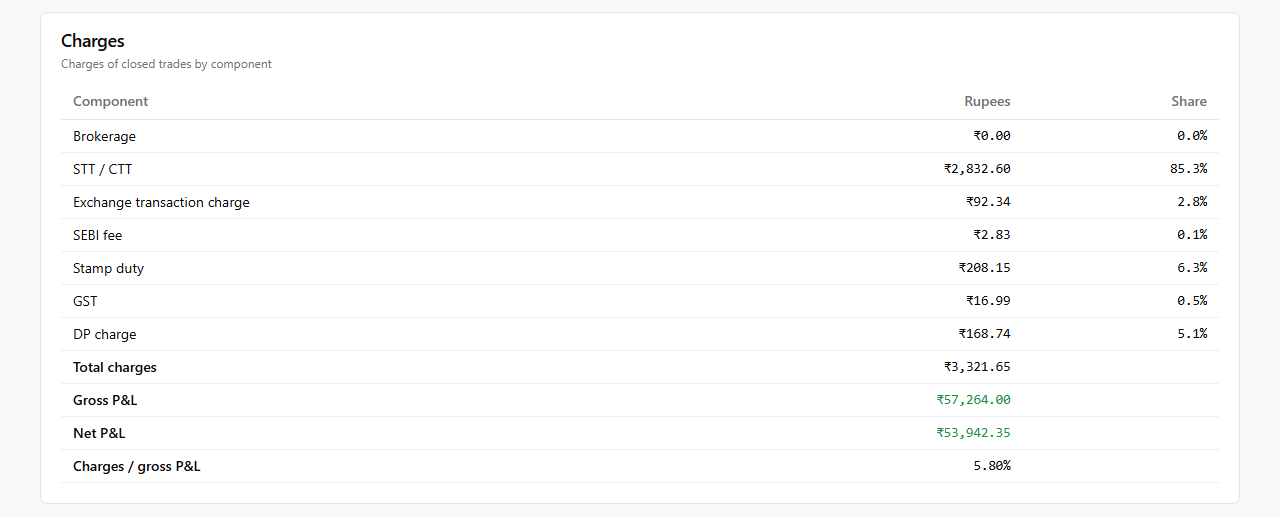
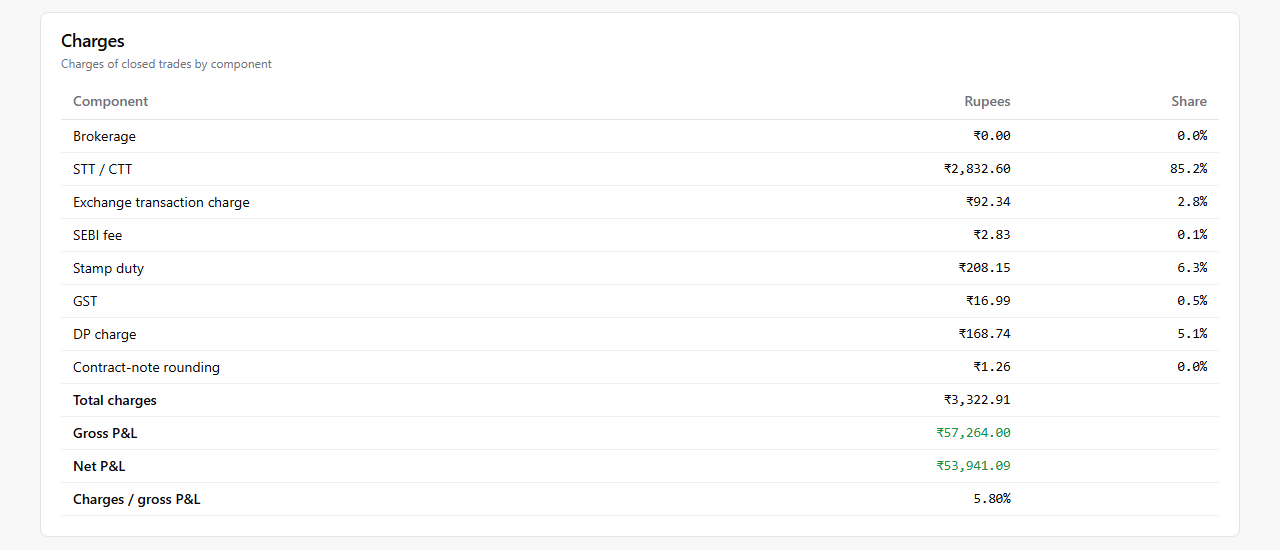
Python docs: 2.2.1, trades that add up to the account and the ServerError stop
- Each trade's charges now include its share of the contract-note rounding, so the
  trade figures equal the account: the SBIN run's trades net Rs 53,941.09 with
  charges Rs 3,322.91. The Rs 1.26 explanations in lesson 2, Metrics Explained and
  The Tearsheet are replaced, and changed values are updated.
- Output blocks refreshed on the twelve pages whose trade figures moved; Costs,
  Slippage and Margin shows the new `charged` column.
- The Charges screenshot shows the Contract-note rounding row; the Trades
  screenshot its new figures.
- Common Tasks, Data and Data Loading: a server that cannot send the history before
  start stops the run with ServerError.
- The overview hint says these pages describe 2.2.1, being released.

diff --git a/trading-platform/python/backtesting/tutorial/02-read-the-results.md b/trading-platform/python/backtesting/tutorial/02-read-the-results.md
@@ -141,20 +141,20 @@ open_trades                                          Open trades                
 winning_trades                                    Winning trades                          4      count
 losing_trades                                      Losing trades                          7      count
 win_rate                                                Win rate                   0.363636   fraction
-average_win                                          Average win               27746.076004     rupees
-average_loss                                        Average loss               -8148.851097     rupees
-profit_factor                                      Profit factor                   1.945661      ratio
-expectancy                                            Expectancy                4903.849667     rupees
-payoff_ratio                                        Payoff ratio                   3.404906      ratio
-largest_win                                          Largest win               40455.863962     rupees
-largest_loss                                        Largest loss              -16998.742792     rupees
+average_win                                          Average win                 27746.2275     rupees
+average_loss                                        Average loss               -8149.117143     rupees
+profit_factor                                      Profit factor                   1.945608      ratio
+expectancy                                            Expectancy                4903.735455     rupees
+payoff_ratio                                        Payoff ratio                   3.404814      ratio
+largest_win                                          Largest win                   40455.82     rupees
+largest_loss                                        Largest loss                  -16999.48     rupees
 max_consecutive_wins                            Consecutive wins                          1      count
 max_consecutive_losses                        Consecutive losses                          2      count
 average_holding_seconds                     Average holding time            11012072.727273    seconds
 gross_pnl                                              Gross P&L                    57264.0     rupees
-total_costs                                                Costs                3321.653663     rupees
-net_pnl                                                  Net P&L               53942.346337     rupees
-cost_share_of_gross_pnl                        Costs / gross P&L                   0.058006   fraction
+total_costs                                                Costs                    3322.91     rupees
+net_pnl                                                  Net P&L                   53941.09     rupees
+cost_share_of_gross_pnl                        Costs / gross P&L                   0.058028   fraction
 turnover                                                Turnover                  2832597.5     rupees
 turnover_ratio                                    Turnover ratio                  20.957028      ratio
 benchmark_total_return                          Benchmark return                   0.806287   fraction
@@ -207,10 +207,10 @@ tail_ratio                                            Tail ratio                
 outlier_win_ratio                              Outlier win ratio                   3.221468      ratio
 outlier_loss_ratio                            Outlier loss ratio                   3.076299      ratio
 win_loss_ratio                                    Win/loss ratio                   0.571429      ratio
-kelly_criterion                                  Kelly criterion                    0.17674   fraction
-risk_of_ruin                                        Risk of ruin                   0.036067   fraction
-cpc_index                                              CPC index                   2.409016      ratio
-common_sense_ratio                            Common sense ratio                   2.228911      ratio
+kelly_criterion                                  Kelly criterion                   0.176735   fraction
+risk_of_ruin                                        Risk of ruin                   0.036075   fraction
+cpc_index                                              CPC index                   2.408885      ratio
+common_sense_ratio                            Common sense ratio                    2.22885      ratio
 ```
 
 How to read the table:
@@ -218,7 +218,7 @@ How to read the table:
 * The left column, `key`, is the figure's name in code: `result.metrics["sharpe"]` gives the Sharpe ratio, 0.469393. The figures come in groups, such as Run, Returns and risk, Drawdown and Trades; the table's `group` column says which group each row belongs to.
 * `unit` says how to read the value. A **fraction** is a percent written as a share of 1: a `total_return` of 0.539411 is 53.94 percent. **rupees** is money, **ratio** a plain number, **count** a whole number, **days** calendar days, **seconds** seconds, **timestamp** a time in IST (`None` when there is none, such as the recovery of a drawdown that has not recovered yet), **flag** True or False, and **text** words.
 * The Benchmark group (beta, alpha and the others) is there because this run has `benchmark="NIFTY"`. Without a benchmark the table has 100 figures.
-* `net_pnl` in the Trades group, Rs 53,942.35, is Rs 1.26 more than `net_profit`, Rs 53,941.09. The trade figures add up each trade's own charges; the account also pays the rounding of each day's contract note, which rounds STT and stamp duty to whole rupees. `net_profit` is what your account made.
+* `net_pnl` in the Trades group, Rs 53,941.09, equals `net_profit`. Each trade's charges include its share of the rounding on each day's contract note (STT and stamp duty are rounded to whole rupees there), so the trades add up to what your account made. The two differ only when a position is still open at the end of the run: `net_pnl` counts closed trades only.
 
 A fifth column, `definition`, says how each figure is worked out:
 
@@ -254,23 +254,23 @@ print(trades[columns].to_string(float_format="%.2f"))  # every row, with two dec
 ```text
                      entry_time                 exit_time  quantity  entry_price  exit_price   net_pnl
 trade
-1     2021-05-11 09:15:00+05:30 2021-12-21 09:15:00+05:30    270.00       356.95      456.95  26741.28
-2     2022-01-11 09:15:00+05:30 2022-03-04 09:15:00+05:30    246.00       503.15      460.20 -10846.48
-3     2022-04-06 09:15:00+05:30 2022-05-06 09:15:00+05:30    222.00       507.15      470.90  -8305.91
-4     2022-07-13 09:15:00+05:30 2023-01-30 09:15:00+05:30    217.00       487.85      535.85  10153.35
-5     2023-04-28 09:15:00+05:30 2023-08-17 09:15:00+05:30    204.00       567.95      565.60   -752.78
-6     2023-09-15 09:15:00+05:30 2023-10-19 09:15:00+05:30    191.00       599.50      569.65  -5966.26
-7     2023-12-07 09:15:00+05:30 2024-08-14 09:15:00+05:30    178.00       610.15      800.75  33633.80
-8     2024-11-05 09:15:00+05:30 2025-01-01 09:15:00+05:30    170.00       830.05      795.35  -6222.16
-9     2025-04-03 09:15:00+05:30 2026-03-30 09:15:00+05:30    174.00       770.20     1004.75  40455.86
-10    2026-04-27 09:15:00+05:30 2026-05-11 09:15:00+05:30    159.00      1111.20     1006.75 -16998.74
-11    2026-07-03 09:15:00+05:30 2026-09-08 09:15:00+05:30    150.00      1055.25     1004.65  -7949.63
+1     2021-05-11 09:15:00+05:30 2021-12-21 09:15:00+05:30    270.00       356.95      456.95  26742.48
+2     2022-01-11 09:15:00+05:30 2022-03-04 09:15:00+05:30    246.00       503.15      460.20 -10846.92
+3     2022-04-06 09:15:00+05:30 2022-05-06 09:15:00+05:30    222.00       507.15      470.90  -8306.89
+4     2022-07-13 09:15:00+05:30 2023-01-30 09:15:00+05:30    217.00       487.85      535.85  10153.37
+5     2023-04-28 09:15:00+05:30 2023-08-17 09:15:00+05:30    204.00       567.95      565.60   -752.17
+6     2023-09-15 09:15:00+05:30 2023-10-19 09:15:00+05:30    191.00       599.50      569.65  -5966.78
+7     2023-12-07 09:15:00+05:30 2024-08-14 09:15:00+05:30    178.00       610.15      800.75  33633.24
+8     2024-11-05 09:15:00+05:30 2025-01-01 09:15:00+05:30    170.00       830.05      795.35  -6221.68
+9     2025-04-03 09:15:00+05:30 2026-03-30 09:15:00+05:30    174.00       770.20     1004.75  40455.82
+10    2026-04-27 09:15:00+05:30 2026-05-11 09:15:00+05:30    159.00      1111.20     1006.75 -16999.48
+11    2026-07-03 09:15:00+05:30 2026-09-08 09:15:00+05:30    150.00      1055.25     1004.65  -7949.90
 ```
 
 * Each row is one trade: bought at `entry_time` and sold at `exit_time`, both in IST (`+05:30`). 09:15 is the market open, when every order of this daily strategy filled.
 * `quantity` is the number of shares bought: whole shares, as many as 98 percent of the account could pay for. Later trades bought fewer, because each share cost more.
 * The prices are per share, in rupees, and include slippage. `net_pnl` is the trade's profit or loss in rupees, after its own charges.
-* The first trade, bought in May 2021 at 356.95 and sold in December 2021 at 456.95, made Rs 26,741.28. A few long trends like that one paid for the many short losses.
+* The first trade, bought in May 2021 at 356.95 and sold in December 2021 at 456.95, made Rs 26,742.48. A few long trends like that one paid for the many short losses.
 * The table has more columns: `direction` (long or short), `product`, `gross_pnl` (before charges), `charges`, `return_pct` (the trade's return in percent), `bars_held` and `days_held` (how long it was held) and `exit_reason` (why it was sold; `signal` is your own `self.exit()`).
 
 ## The HTML report

diff --git a/trading-platform/python/backtesting/costs-slippage-and-margin.md b/trading-platform/python/backtesting/costs-slippage-and-margin.md
@@ -56,7 +56,7 @@ Net profit   : Rs 53,941.09
 Return       : 53.94%
 Max drawdown : -29.35%
 Trades       : 11 (36% won)
-Charges      : Rs 3,321.65
+Charges      : Rs 3,322.91
 ```
 
 The net profit is after every charge. The **max drawdown** is the largest fall of the account from its highest value.
@@ -76,18 +76,18 @@ The charges of the first trade, its buy and its sell:
 <!-- requires-server -->
 ```python
 # result.costs has one row per fill with every charge in rupees; show the first two rows.
-columns = ["side", "price_rupees", "brokerage", "stt", "exchange_txn", "sebi_fee", "stamp_duty", "gst", "dp_charge", "total"]
+columns = ["side", "price_rupees", "brokerage", "stt", "exchange_txn", "sebi_fee", "stamp_duty", "gst", "dp_charge", "total", "charged"]
 print(result.costs[columns].head(2).round(2).to_string(index=False))
 ```
 
 <!-- output -->
 ```text
-side  price_rupees  brokerage    stt  exchange_txn  sebi_fee  stamp_duty  gst  dp_charge  total
- BUY        356.95        0.0  96.38          3.33      0.10       14.46 0.60       0.00 114.85
-SELL        456.95        0.0 123.38          4.26      0.12        0.00 0.77      15.34 143.86
+side  price_rupees  brokerage    stt  exchange_txn  sebi_fee  stamp_duty  gst  dp_charge  total  charged
+ BUY        356.95        0.0  96.38          3.33      0.10       14.46 0.60       0.00 114.85   114.03
+SELL        456.95        0.0 123.38          4.26      0.12        0.00 0.77      15.34 143.86   143.49
 ```
 
-Reading the buy: 270 shares at 356.95 is an order of Rs 96,377. Delivery brokerage is zero. STT is 0.1 percent of the value (Rs 96.38), stamp duty 0.015 percent (Rs 14.46), and the exchange charge, SEBI fee and GST add about Rs 4. The sell pays STT again, no stamp duty, and the DP charge of Rs 15.34. Every rate is the one in force on the trade's date.
+Reading the buy: 270 shares at 356.95 is an order of Rs 96,377. Delivery brokerage is zero. STT is 0.1 percent of the value (Rs 96.38), stamp duty 0.015 percent (Rs 14.46), and the exchange charge, SEBI fee and GST add about Rs 4. The sell pays STT again, no stamp duty, and the DP charge of Rs 15.34. Every rate is the one in force on the trade's date. `total` adds up the charges as worked out; `charged` is what the account paid for the fill. The day's contract note rounds STT and stamp duty to whole rupees (Rs 96 and Rs 14 for the buy), so the buy paid Rs 114.03 and the sell Rs 143.49. A trade's charges are what its fills paid.
 
 ## How do I use my own broker's brokerage?
 
@@ -116,7 +116,7 @@ Net profit   : Rs 53,485.86
 Return       : 53.49%
 Max drawdown : -29.42%
 Trades       : 11 (36% won)
-Charges      : Rs 3,836.09
+Charges      : Rs 3,836.94
 ```
 
 Twenty-two orders at Rs 20 each (Rs 440), plus the GST on them, raised the charges and lowered the profit. To price one trade without a backtest, use the [cost calculator](support-functions/cost-calculator.md).
@@ -149,7 +149,7 @@ Net profit   : Rs 54,954.60
 Return       : 54.95%
 Max drawdown : -29.24%
 Trades       : 11 (36% won)
-Charges      : Rs 3,330.54
+Charges      : Rs 3,328.25
 ```
 
 Over 22 fills, the default slippage cost about Rs 1,000 of profit. Keep it on: real fills are never exactly at the open.
@@ -226,7 +226,7 @@ Net profit   : Rs 55,819.69
 Return       : 55.82%
 Max drawdown : -29.82%
 Trades       : 11 (36% won)
-Charges      : Rs 3,414.87
+Charges      : Rs 3,416.24
 first buy, whole shares: 270.0
 first buy, part shares : 279.82
 ```
@@ -268,7 +268,7 @@ Here there are two. The first: no lot or tick size was given for SBIN, so the en
 
 ## More options
 
-* **Contract-note rounding:** by default STT and stamp duty are rounded to the rupee once a day per contract note, as a broker does; `result.contract_notes` shows each note. `costs=bt.costs.CostModel(rounding="calculator")` rounds each trade instead.
+* **Contract-note rounding:** by default STT and stamp duty are rounded to the rupee once a day per contract note, as a broker does; `result.contract_notes` shows each note. Each fill pays its share of its note (`result.costs["charged"]`), and a trade pays what its fills paid, so the trades add up to the account. `costs=bt.costs.CostModel(rounding="calculator")` rounds each trade instead.
 * **Dated rates:** charges are built in from 1 July 2020, one schedule per rate change; `result.costs` names the `schedule` of each fill. An earlier start stops with a `CostError`: pass `costs=None`, or `bt.costs.CostModel(backfill=True)`.
 * **Not costed yet:** currency derivatives (CDS, BCD) and MCX options stop with a `CostError`; pass `costs=None`.
 * **Your own brokerage:** `bt.costs.custom(delivery=..., intraday=..., futures=..., options=..., dp_fee=...)`.

diff --git a/trading-platform/python/backtesting/metrics-explained.md b/trading-platform/python/backtesting/metrics-explained.md
@@ -181,19 +181,19 @@ A **trade** is a round trip: a buy and the sell that closed it (or a short sale 
 | Winning trades (`winning_trades`) | 4 | Trades that made money after their charges. |
 | Losing trades (`losing_trades`) | 7 | Trades that lost money after their charges. |
 | Win rate (`win_rate`) | 36.36% | The share of trades that made money. Trend strategies often win less than half their trades and still make money, because their wins are large. |
-| Average win (`average_win`) | Rs 27,746.08 | The average profit of a winning trade. |
-| Average loss (`average_loss`) | Rs -8,148.85 | The average loss of a losing trade. |
+| Average win (`average_win`) | Rs 27,746.23 | The average profit of a winning trade. |
+| Average loss (`average_loss`) | Rs -8,149.12 | The average loss of a losing trade. |
 | Profit factor (`profit_factor`) | 1.95 | All the money won divided by all the money lost. Above 1 makes money; many traders look for 1.5 or more. |
-| Expectancy (`expectancy`) | Rs 4,903.85 | The average profit per trade: what one more trade like these would earn on average. |
+| Expectancy (`expectancy`) | Rs 4,903.74 | The average profit per trade: what one more trade like these would earn on average. |
 | Payoff ratio (`payoff_ratio`) | 3.40 | The average win divided by the average loss. Here a win was 3.4 times the size of a loss. |
-| Largest win (`largest_win`) | Rs 40,455.86 | The best trade. |
-| Largest loss (`largest_loss`) | Rs -16,998.74 | The worst trade. Compare it with your capital: could you take it again? |
+| Largest win (`largest_win`) | Rs 40,455.82 | The best trade. |
+| Largest loss (`largest_loss`) | Rs -16,999.48 | The worst trade. Compare it with your capital: could you take it again? |
 | Consecutive wins (`max_consecutive_wins`) | 1 | The longest run of winning trades in a row. |
 | Consecutive losses (`max_consecutive_losses`) | 2 | The longest run of losing trades in a row. Expect a longer losing run than this one in real trading, and decide in advance whether you would keep going. |
 | Average holding time (`average_holding_seconds`) | 1,10,12,072.73 seconds | How long a trade was held on average. Divide by 86,400 for days: about 127 days here. |
 | Gross P&L (`gross_pnl`) | Rs 57,264.00 | The trades' profit before charges. |
-| Costs (`total_costs`) | Rs 3,321.65 | The trades' charges: brokerage, STT, exchange charges, SEBI fee, stamp duty, GST and the DP charge. |
-| Net P&L (`net_pnl`) | Rs 53,942.35 | The trades' profit after their charges. It is Rs 1.26 more than the net profit: the account also pays the rounding of each day's contract note, which rounds STT and stamp duty to whole rupees. |
+| Costs (`total_costs`) | Rs 3,322.91 | The trades' charges: brokerage, STT, exchange charges, SEBI fee, stamp duty, GST and the DP charge, with each trade's share of the rounding on each day's contract note (STT and stamp duty are rounded to whole rupees there). |
+| Net P&L (`net_pnl`) | Rs 53,941.09 | The trades' profit after their charges. With no position left open at the end, as here, it equals the net profit: the trades add up to what your account made. |
 | Costs / gross P&L (`cost_share_of_gross_pnl`) | 5.80% | The share of the gross profit that charges took. A strategy that trades often can lose most of its profit to charges; watch this figure for intraday strategies. |
 | Turnover (`turnover`) | Rs 28,32,597.50 | The total value of every buy and every sell. |
 | Turnover ratio (`turnover_ratio`) | 20.96 | Turnover divided by the average equity: the account was traded about 21 times over. Higher turnover means more charges and more slippage. |

diff --git a/trading-platform/python/backtesting/tearsheet.md b/trading-platform/python/backtesting/tearsheet.md
@@ -150,9 +150,9 @@ The tiles sum up the closed trades: how many, the win rate, the profit factor, t
 
 The **Trade List** has one row per closed trade, the same rows as `result.trade_list()`: when each trade was bought and sold (in IST), the quantity, the prices, the profit before charges (gross P&L), the charges, the profit after them (net P&L), the return, how long it was held in bars and in days, and why it closed (`signal` is the strategy's own `self.exit()`). Click a column heading to sort the trades by it, for example by net P&L to see the best and worst trades first. A long list is split into pages; Prev and Next at the bottom move between them.
 
-<figure><img src="../../../.gitbook/assets/backtest-tearsheet-charges.png" alt="The Charges table: brokerage, STT, exchange transaction charge, SEBI fee, stamp duty, GST and the DP charge, each in rupees and as a share of the total, then the total charges, gross P&L, net P&L and charges as a share of gross P&L"><figcaption><p>Trades: the charges, item by item</p></figcaption></figure>
+<figure><img src="../../../.gitbook/assets/backtest-tearsheet-charges.png" alt="The Charges table: brokerage, STT, exchange transaction charge, SEBI fee, stamp duty, GST, the DP charge and the contract-note rounding, each in rupees and as a share of the total, then the total charges, gross P&L, net P&L and charges as a share of gross P&L"><figcaption><p>Trades: the charges, item by item</p></figcaption></figure>
 
-**Charges** splits what the trades paid into each charge, in rupees and as a share of the total. For delivery (CNC) trades like these, STT is most of it: Rs 2,832.60 of Rs 3,321.65. In all, charges took 5.80 percent of the gross profit. The trade figures come before the rounding of each day's contract note, which is why the net P&L here is Rs 1.26 more than the net profit of the run (see [Metrics Explained](metrics-explained.md#trades)).
+**Charges** splits what the trades paid into each charge, in rupees and as a share of the total. For delivery (CNC) trades like these, STT is most of it: Rs 2,832.60 of Rs 3,322.91. The last item, **Contract-note rounding** (Rs 1.26 here), is what the rounding on each day's contract note added: STT and stamp duty are rounded to whole rupees there, and each trade pays its share. With it the trades add up to the account, so the net P&L here equals the net profit of the run. In all, charges took 5.80 percent of the gross profit.
 
 When a strategy opens trades with a stop-loss, this section also has an **R-multiples** table: each trade's profit or loss in units of what its stop-loss risked.
 

diff --git a/trading-platform/python/backtesting/data.md b/trading-platform/python/backtesting/data.md
@@ -306,6 +306,7 @@ Bars from your OpenAlgo server are saved on your disk, so a second run of the sa
 * Each timestamp is the moment the bar **opens** (the OpenAlgo convention); a daily bar is stamped with its date.
 * Daily and longer bars (D, W, M, Q, Y) whose times are all midnight with no time zone are read as IST session dates, in an index, a timestamp column or CSV dates. Intraday times without a zone need `tz=`, and so do daily times stamped at a time of day.
 * The history before `start` comes from the same source as the run's bars, never a mix; a futures series built from `underlying` loads none, because its contracts and rolls begin at `start`, so its strategy waits inside the run. `result.manifest["arguments"]["warm_up"]` records the warm-up a run used.
+* When OpenAlgo cannot send the history before `start` (the server is not running, or the broker login has expired), the engine asks it once more for the first day of the run, without the local cache. If that fails too, the run stops with a `ServerError` (a `DataError`) that says to log in to the broker in OpenAlgo and run again; it does not go on with the cached bars alone. A broker that refuses only older dates still answers for the run's days: that run goes on with the history it could load, and `result.warnings` says why.
 * Times 5 hours 30 minutes off (IST read as UTC, or the reverse) stop the run with a `TimestampError`; bars before the open, after the close or on a closed day are dropped and counted.
 * What stops a load (`DataQualityError`): a price that is missing, zero or negative, a high below the open or close (or a low above them), and a suspected unadjusted split or bonus. Duplicates and missing bars are warnings. See [Data Loading](support-functions/data-loading.md) for the quality report and `strict=False`.
 * A split or bonus is suspected when an overnight gap is within 5 percent of a usual factor (from a 1:3 bonus up to a 10-for-1 split), lies beyond the widest daily price band and still holds at that day's close. Smaller bonuses (1:4, 1:5, 1:10) are not detected; indices and derivatives are not checked.

diff --git a/trading-platform/python/backtesting/how-to.md b/trading-platform/python/backtesting/how-to.md
@@ -91,9 +91,9 @@ print(trades[columns].head(3).round({"net_pnl": 2}).to_string())  # head(3): the
 ```text
                      entry_time                 exit_time  quantity  entry_price  exit_price   net_pnl
 trade
-1     2021-05-11 09:15:00+05:30 2021-12-21 09:15:00+05:30     270.0       356.95      456.95  26741.28
-2     2022-01-11 09:15:00+05:30 2022-03-04 09:15:00+05:30     246.0       503.15      460.20 -10846.48
-3     2022-04-06 09:15:00+05:30 2022-05-06 09:15:00+05:30     222.0       507.15      470.90  -8305.91
+1     2021-05-11 09:15:00+05:30 2021-12-21 09:15:00+05:30     270.0       356.95      456.95  26742.48
+2     2022-01-11 09:15:00+05:30 2022-03-04 09:15:00+05:30     246.0       503.15      460.20 -10846.92
+3     2022-04-06 09:15:00+05:30 2022-05-06 09:15:00+05:30     222.0       507.15      470.90  -8306.89
 ```
 
 Each trade was decided at a day's close and filled at the next day's open, 09:15. The table also has `direction`, `product`, `gross_pnl`, `charges`, `return_pct`, `bars_held`, `days_held` and `exit_reason`. `result.trade_list().to_csv("trades.csv")` saves it for a spreadsheet. Lesson: [Read the Results](tutorial/02-read-the-results.md).
@@ -422,6 +422,8 @@ WarmUpWarning: The strategy waited inside the run for its indicators to warm up 
 ```
 
 `result.warnings` has the details: the 50-day EMA needs 512 daily bars, and the bars given begin on 1 January 2021. The fix: fetch the bars from an earlier date and pass `start=`, as in [Use your own data](#use-your-own-data) above. Lesson: [Use Your Own Data](tutorial/11-your-own-data.md).
+
+The wait is for history that does not exist. When the history exists but OpenAlgo cannot send it (the server is not running, or the broker login has expired), the run does not wait: it stops with a `ServerError` that says to log in to the broker in OpenAlgo and run the backtest again. Before it stops, the engine asks the server once more for the first day of the run, without the local cache, so a broker that only refuses older dates does not stop it.
 
 ## Understand why `init` runs twice
 

diff --git a/trading-platform/python/backtesting/results-and-reports.md b/trading-platform/python/backtesting/results-and-reports.md
@@ -76,11 +76,11 @@ print(trades[columns].head().to_string(float_format="%.2f"))
 ```text
                      entry_time                 exit_time  quantity  entry_price  exit_price   net_pnl  return_pct exit_reason
 trade
-1     2021-05-11 09:15:00+05:30 2021-12-21 09:15:00+05:30    270.00       356.95      456.95  26741.28       27.75      signal
-2     2022-01-11 09:15:00+05:30 2022-03-04 09:15:00+05:30    246.00       503.15      460.20 -10846.48       -8.76      signal
-3     2022-04-06 09:15:00+05:30 2022-05-06 09:15:00+05:30    222.00       507.15      470.90  -8305.91       -7.38      signal
-4     2022-07-13 09:15:00+05:30 2023-01-30 09:15:00+05:30    217.00       487.85      535.85  10153.35        9.59      signal
-5     2023-04-28 09:15:00+05:30 2023-08-17 09:15:00+05:30    204.00       567.95      565.60   -752.78       -0.65      signal
+1     2021-05-11 09:15:00+05:30 2021-12-21 09:15:00+05:30    270.00       356.95      456.95  26742.48       27.75      signal
+2     2022-01-11 09:15:00+05:30 2022-03-04 09:15:00+05:30    246.00       503.15      460.20 -10846.92       -8.76      signal
+3     2022-04-06 09:15:00+05:30 2022-05-06 09:15:00+05:30    222.00       507.15      470.90  -8306.89       -7.38      signal
+4     2022-07-13 09:15:00+05:30 2023-01-30 09:15:00+05:30    217.00       487.85      535.85  10153.37        9.59      signal
+5     2023-04-28 09:15:00+05:30 2023-08-17 09:15:00+05:30    204.00       567.95      565.60   -752.17       -0.65      signal
 ```
 
 How to read a row:
@@ -138,7 +138,7 @@ CAGR         : 7.64%
 Sharpe ratio : 0.47
 Exposure     : 66%
 Profit factor: 1.95
-Charges      : Rs 3,321.65
+Charges      : Rs 3,322.91
 ```
 
 Returns, rates and drawdowns are stored as fractions (0.0764 is 7.64 percent); the `:.2%` in the f-string prints them as percents. [Metrics Explained](metrics-explained.md) explains every figure in plain words, and [Metric Definitions](metric-definitions.md) gives its formula.

diff --git a/trading-platform/python/backtesting/tutorial/07-futures.md b/trading-platform/python/backtesting/tutorial/07-futures.md
@@ -66,15 +66,15 @@ Max drawdown : -1.54%
 Trades       : 5 (100% won)
                      entry_time                 exit_time  quantity  net_pnl
 trade
-1     2026-10-06 10:15:00+05:30 2026-10-06 15:10:00+05:30     65.00  2166.95
-2     2026-10-09 13:15:00+05:30 2026-10-09 15:10:00+05:30     65.00   762.54
-3     2026-10-13 10:30:00+05:30 2026-10-13 15:10:00+05:30     65.00 10343.47
-4     2026-10-26 13:15:00+05:30 2026-10-26 15:10:00+05:30     65.00  6249.03
-5     2026-10-29 09:30:00+05:30 2026-10-29 15:10:00+05:30     65.00 14368.12
+1     2026-10-06 10:15:00+05:30 2026-10-06 15:10:00+05:30     65.00  2166.14
+2     2026-10-09 13:15:00+05:30 2026-10-09 15:10:00+05:30     65.00   763.10
+3     2026-10-13 10:30:00+05:30 2026-10-13 15:10:00+05:30     65.00 10343.26
+4     2026-10-26 13:15:00+05:30 2026-10-26 15:10:00+05:30     65.00  6248.22
+5     2026-10-29 09:30:00+05:30 2026-10-29 15:10:00+05:30     65.00 14367.90
 ```
 
 * Every trade was one lot, 65 units, and every one was closed at 15:10 by the engine's square-off.
-* A trade's profit is the points the price moved times 65. On 29 October NIFTY futures rose 234.80 points after the entry: 234.80 x 65 = Rs 15,262 before charges, Rs 14,368.12 after them.
+* A trade's profit is the points the price moved times 65. On 29 October NIFTY futures rose 234.80 points after the entry: 234.80 x 65 = Rs 15,262 before charges, Rs 14,367.90 after them.
 * The max drawdown (the largest fall of the account from its highest value) was only 1.54 percent, because every trade made money.
 * Five trades in six weeks are far too few to judge a strategy. The point of this lesson is how futures work, not this result.
 

diff --git a/trading-platform/python/backtesting/support-functions/data-loading.md b/trading-platform/python/backtesting/support-functions/data-loading.md
@@ -149,4 +149,4 @@ The first bar's stamp is its close, 09:30 IST; with `label="close"` the engine s
 * `cache`, `cache_dir`, `refresh`: the cache is on by default, in `~/.openalgo/backtest/cache` (or `OPENALGO_BT_CACHE`); `refresh=True` fetches the range again. A session is trusted from the cache only once it was fetched well after its close. `meta.cache` is `"hit"`, `"top-up"`, `"miss"`, `"refresh"`, `"off"` or `"bypassed"`.
 * The bars have `ts_open`, `ts_close` (UTC nanoseconds), `open`, `high`, `low`, `close`, `volume` and `oi`, and `bars.attrs` carries the symbol, exchange, interval and source.
 * `meta` also has `broker`, `requested_start`, `requested_end`, `short_history`, `warnings` (a short history first) and `partition_hashes()` (the monthly hashes a run manifest records).
-* Errors, all in `openalgo.backtest.errors`: `ConfigError` (arguments that do not fit together), `NoDataError` (nothing for the range), `TimestampError` (times that do not fit the session calendar), `DataQualityError` (failed quality checks) and `DataError` (server failures).
+* Errors, all in `openalgo.backtest.errors`: `ConfigError` (arguments that do not fit together), `NoDataError` (nothing for the range), `TimestampError` (times that do not fit the session calendar), `DataQualityError` (failed quality checks), `ServerError` (a request the OpenAlgo server could not answer: it is not running, keeps answering that requests are too frequent, or answers with an error such as an expired broker login) and `DataError` (the parent of them all, also raised for rows that cannot be read).

diff --git a/trading-platform/python/backtesting/futures.md b/trading-platform/python/backtesting/futures.md
@@ -72,11 +72,11 @@ print(trades.to_string(index=False, float_format="%.2f"))  # 2 decimals, no row 
 <!-- output -->
 ```text
                entry_time                 exit_time  quantity  net_pnl
-2026-10-06 10:15:00+05:30 2026-10-06 15:10:00+05:30     65.00  2166.95
-2026-10-09 13:15:00+05:30 2026-10-09 15:10:00+05:30     65.00   762.54
-2026-10-13 10:30:00+05:30 2026-10-13 15:10:00+05:30     65.00 10343.47
-2026-10-26 13:15:00+05:30 2026-10-26 15:10:00+05:30     65.00  6249.03
-2026-10-29 09:30:00+05:30 2026-10-29 15:10:00+05:30     65.00 14368.12
+2026-10-06 10:15:00+05:30 2026-10-06 15:10:00+05:30     65.00  2166.14
+2026-10-09 13:15:00+05:30 2026-10-09 15:10:00+05:30     65.00   763.10
+2026-10-13 10:30:00+05:30 2026-10-13 15:10:00+05:30     65.00 10343.26
+2026-10-26 13:15:00+05:30 2026-10-26 15:10:00+05:30     65.00  6248.22
+2026-10-29 09:30:00+05:30 2026-10-29 15:10:00+05:30     65.00 14367.90
 ```
 
 Every trade was one lot, 65 units, and every one was closed by the 15:10 square-off.

diff --git a/trading-platform/python/backtesting/examples/ema-crossover.md b/trading-platform/python/backtesting/examples/ema-crossover.md
@@ -64,9 +64,9 @@ Return       : 53.94%
 Max drawdown : -29.35%
 Trades       : 11 (36% won)
                entry_time                 exit_time   net_pnl
-2021-05-11 09:15:00+05:30 2021-12-21 09:15:00+05:30  26741.28
-2022-01-11 09:15:00+05:30 2022-03-04 09:15:00+05:30 -10846.48
-2022-04-06 09:15:00+05:30 2022-05-06 09:15:00+05:30  -8305.91
+2021-05-11 09:15:00+05:30 2021-12-21 09:15:00+05:30  26742.48
+2022-01-11 09:15:00+05:30 2022-03-04 09:15:00+05:30 -10846.92
+2022-04-06 09:15:00+05:30 2022-05-06 09:15:00+05:30  -8306.89
 ```
 
 Only 4 of the 11 trades won, but a few long trends paid for the many short false starts. The engine loaded SBIN's bars from before 2021 by itself, so both EMAs had their values on the first day of the run. The max drawdown is the largest fall of the account from its highest value. Every crossover was decided at a day's close and filled at the next day's open (09:15), after delivery charges and slippage.

diff --git a/trading-platform/python/backtesting/examples/rsi-pullback.md b/trading-platform/python/backtesting/examples/rsi-pullback.md
@@ -64,9 +64,9 @@ Return       : -9.41%
 Max drawdown : -29.72%
 Trades       : 7 (57% won)
                entry_time                 exit_time   net_pnl
-2021-05-17 09:15:00+05:30 2021-05-27 09:15:00+05:30   5897.84
-2022-01-25 09:15:00+05:30 2022-03-10 09:15:00+05:30   6714.27
-2022-04-12 09:15:00+05:30 2022-07-22 09:15:00+05:30 -14190.78
+2021-05-17 09:15:00+05:30 2021-05-27 09:15:00+05:30   5898.19
+2022-01-25 09:15:00+05:30 2022-03-10 09:15:00+05:30   6715.52
+2022-04-12 09:15:00+05:30 2022-07-22 09:15:00+05:30 -14189.65
 ```
 
 Four of the seven pullbacks recovered, but the one of April 2022 did not: the stock kept falling, the RSI stayed below 60 for three months, and with no stop-loss that one trade lost Rs 14,191, more than the two winners before it made together (Rs 12,612). That is the risk of buying dips without a stop. The max drawdown is the largest fall of the account from its highest value.
